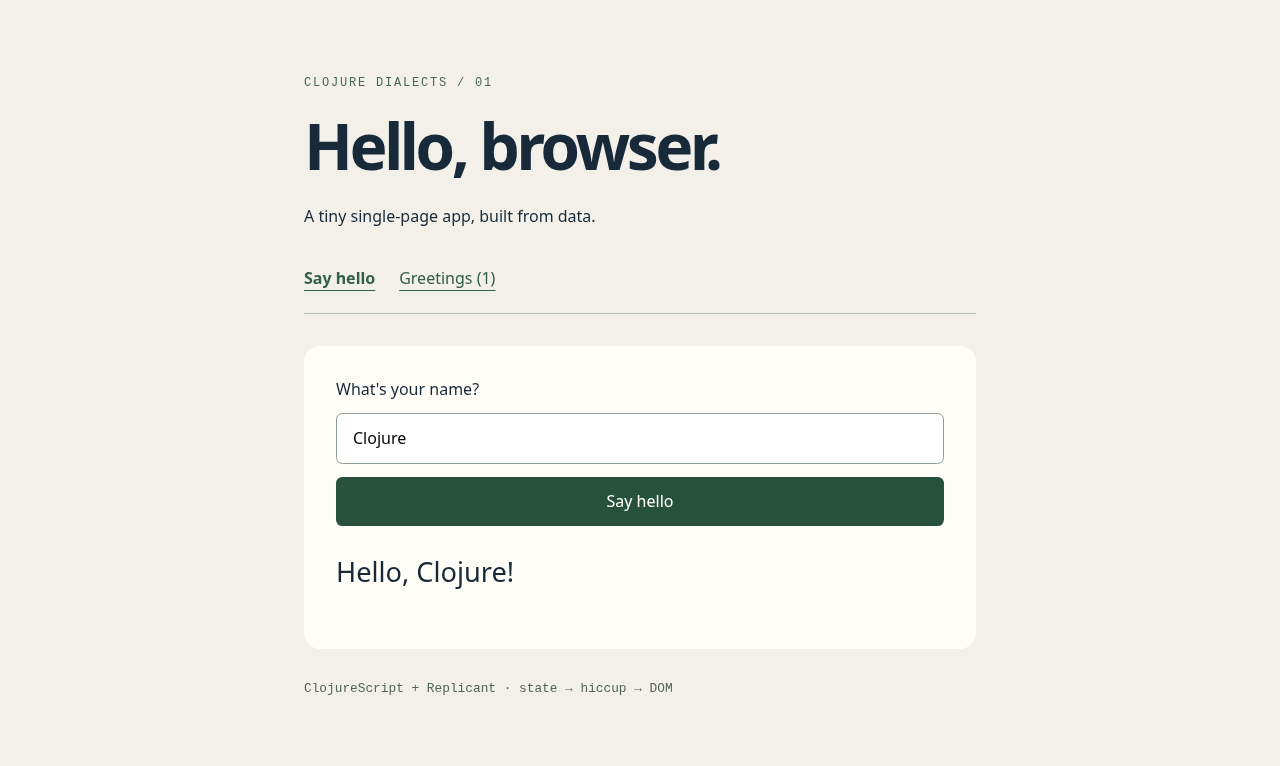
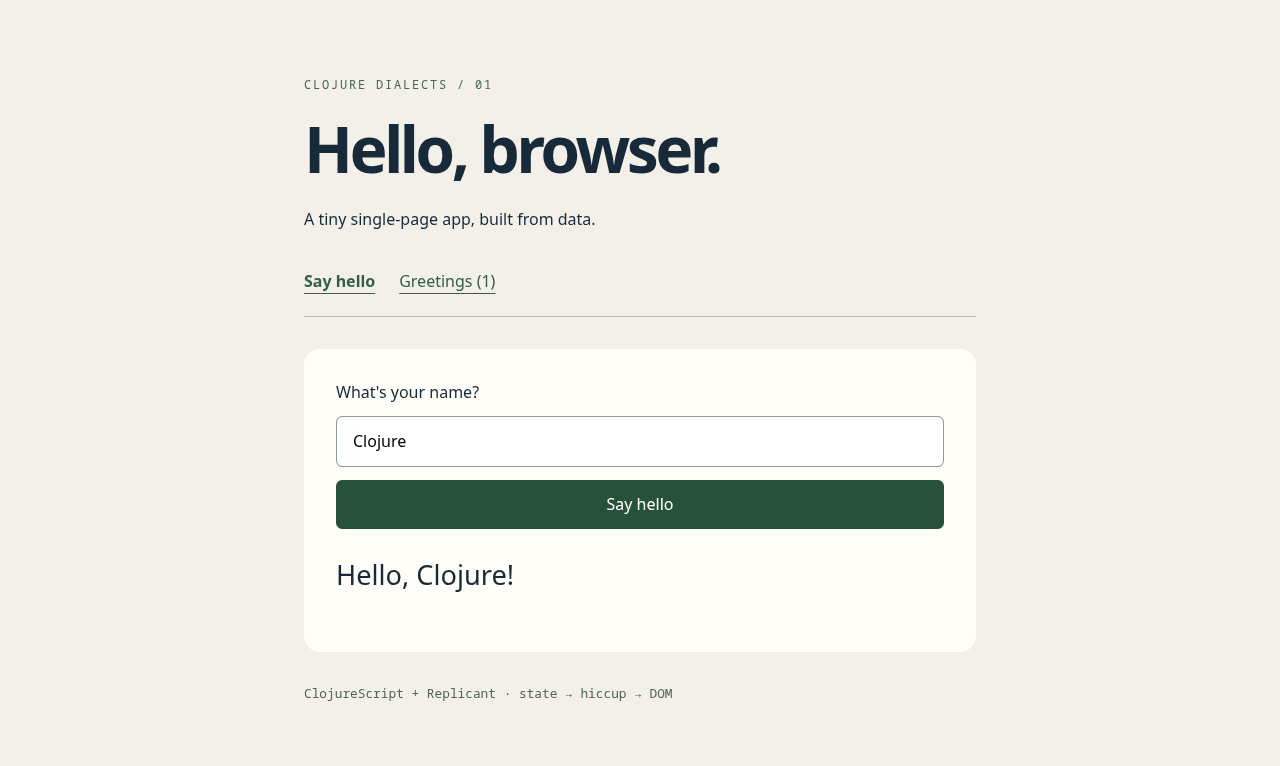
Open the Replicant demo directly from file URLs without a server

diff --git a/examples/clojurescript/README.md b/examples/clojurescript/README.md
@@ -5,18 +5,19 @@ a pure function produces hiccup, and Replicant updates the DOM. Hash navigation
 keeps the app and its in-memory history alive without page reloads. This uses
 Replicant, not React itself.
 
-Requires Java, Clojure CLI, and Python 3 to serve files. Node/npm is needed only
-for browser tests.
+Requires Java and Clojure CLI to build. Node/npm is needed only for browser tests.
 
 ```sh
 cd examples/clojurescript
 clojure -M:build
-python3 -m http.server 8071 --bind 127.0.0.1 --directory public
 ```
 
-Open http://localhost:8071, enter a name, and press **Say hello**. Visit
+Open [public/index.html](public/index.html) directly in your browser using
+`file://`—no local server is needed. Enter a name and press **Say hello**. Visit
 **Greetings** to see the history. Reloading the page intentionally resets state.
-For development, run `clojure -M:dev` in another terminal and refresh after edits.
+For development, run `clojure -M:dev` and refresh the same file after edits.
+
+Optional automated browser checks (the only part that uses Node/npm):
 
 ```sh
 npm ci
@@ -24,9 +25,10 @@ npx playwright install chromium
 npm test
 ```
 
-Verified on Linux ARM64, 2026-09-11: advanced production compilation and Chromium
-browser test covering greeting, blank-name fallback, literal HTML handling,
-history, browser back navigation, and clearing history. No browser errors.
+Verified on Linux ARM64, 2026-09-11: production and development builds with a Chromium
+browser test loading `file://` directly and covering greeting, blank-name fallback, literal HTML handling,
+history, browser back navigation, and clearing history. No browser errors or
+HTTP server in the test. Assets use relative paths and navigation uses URL hashes.
 
 ![Greeting app](screenshot.png)
 

diff --git a/README.md b/README.md
@@ -25,7 +25,7 @@ Updated as each demo is verified. “Working” means the listed execution check
 
 | Demo | Status | Verification |
 | --- | --- | --- |
-| ClojureScript + Replicant SPA | [Working demo](examples/clojurescript/) | Production build and Chromium test: form, history routes, browser back, clear, blank and HTML-like input; Linux ARM64. |
+| ClojureScript + Replicant SPA | [Working demo](examples/clojurescript/) | Opens directly via file:// after compilation; Chromium verifies form, hash routes, browser back, clear, blank and HTML-like input; Linux ARM64. |
 | Glojure OCI service | [Working demo](examples/glojure/) | Local Go build; packaging-only scratch OCI image with size inspection instructions; health, named/default and Unicode requests under a non-root container; Linux ARM64. |
 | Clojerl two-node actors | [Working demo](examples/clojerl/) | Two separate BEAM nodes exchanged correlated greeting replies with actor-owned request counts; OTP 26, Linux ARM64. |
 | jank native graphics | [Working demo](examples/jank/) | Native macOS and Linux ARM64 SDL windows; Linux now runs directly on the host with a local LLVM/GCC bundle; synthetic Space key and captured pixels verified. Linux ARM64 source build also passes jank JIT/AOT health checks; x86-64 emulation remains an optional fallback. |
